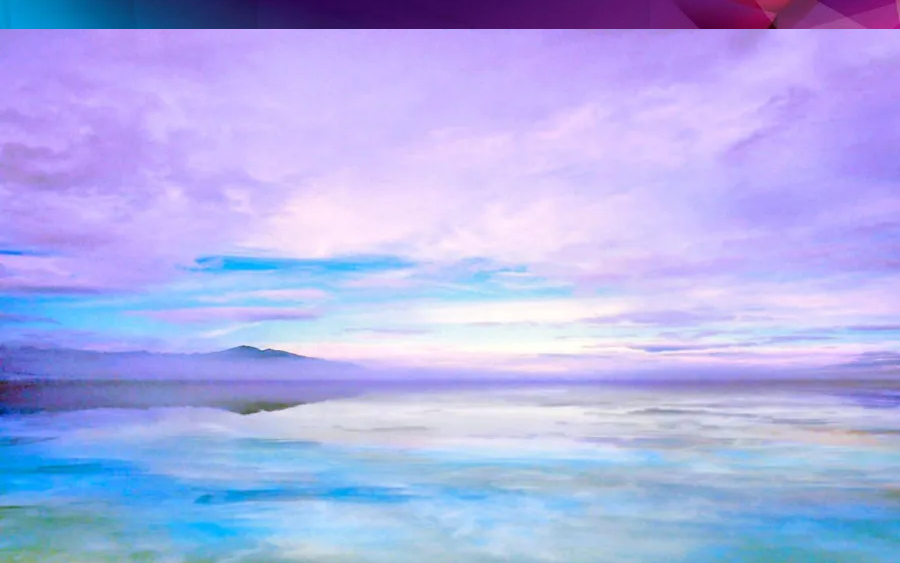
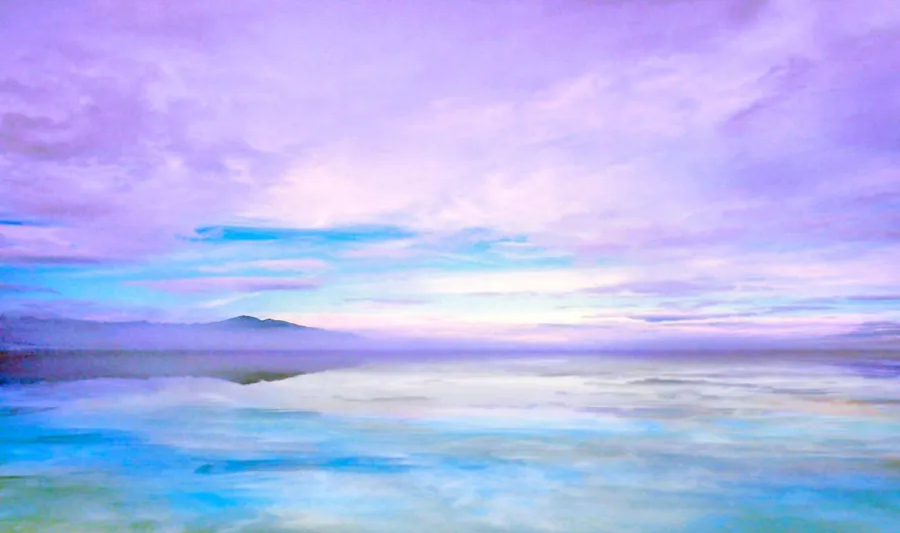
responsividade

diff --git a/src/css/style.css b/src/css/style.css
@@ -30,7 +30,6 @@ section {
     background: url("assets/img/bg-apresentacao.jpg") no-repeat center center/cover;
 }
 
-
 /* Adiciona um efeito de overlay para melhorar a leitura do texto */
 section::before {
     content: "";
@@ -57,6 +56,14 @@ section * {
     margin: 10px auto;
 }
 
+/* Media Query para telas menores */
+@media (max-width: 768px) {
+    #apresentacao img {
+        width: 150px;  /* Ajusta a largura da imagem em telas menores */
+        height: 150px; /* Ajusta a altura da imagem em telas menores */
+    }
+}
+
 
 
 footer {
@@ -64,8 +71,48 @@ footer {
     color: white;
     padding: 10px;
     width: 99.1%;
+    display: flex;
+    align-items: center; /* Garante que os itens fiquem centralizados na linha */
+    justify-content: center;
+    flex-wrap: wrap; /* Permite que os itens se ajustem em várias linhas se necessário */
 }
 
+footer p {
+    text-align: center;
+    margin: 5px 10px;
+}
+
+.contact-bttn, .contact-btn {
+    margin: 5px 10px;
+}
+
+.contact-icon {
+    width: 20px;
+    height: 20px;
+}
+
+/* Media Query para telas menores */
+@media (max-width: 768px) {
+    footer {
+        flex-direction: column; /* Muda para uma coluna em telas pequenas */
+        align-items: center; /* Garante que os itens fiquem centralizados */
+    }
+
+    .contact-bttn, .contact-btn {
+        margin: 10px 0; /* Ajusta o espaçamento entre os botões */
+    }
+
+    .contact-icon {
+        width: 25px; /* Aumenta um pouco o tamanho dos ícones em telas pequenas */
+        height: 25px;
+    }
+
+    footer p {
+        font-size: 14px; /* Diminui a fonte para telas pequenas */
+    }
+}
+
+/* Sidebar normal para telas grandes */
 .sidebar {
     position: fixed;
     top: 0;
@@ -78,6 +125,7 @@ footer {
     flex-direction: column;
     align-items: center;
     padding-top: 20px;
+    transition: width 0.3s ease; /* Transição suave para a largura */
 }
 
 .sidebar ul {
@@ -114,6 +162,7 @@ footer {
     object-fit: cover;
 }
 
+/* Ajuste no conteúdo */
 .content {
     margin-left: 220px; /* Garante espaço ao lado da sidebar */
     max-width: calc(100% - 220px); /* Limita a largura da content para evitar sobreposição */
@@ -121,6 +170,58 @@ footer {
     box-sizing: border-box;
 }
 
+/* Media Query para telas pequenas */
+@media (max-width: 768px) {
+    /* Sidebar para telas pequenas */
+    .sidebar {
+        width: 0; /* Inicialmente oculta a sidebar */
+        height: 100%;
+        overflow: hidden;
+        position: absolute;
+        z-index: 1; /* Coloca a sidebar atrás do conteúdo */
+        transition: width 0.3s ease; /* Transição suave quando aparecer */
+    }
+
+    /* Exibe a sidebar quando o mouse passa por cima */
+    .sidebar:hover {
+        width: 200px; /* Exibe a sidebar */
+    }
+
+    /* Ajuste no conteúdo para telas pequenas */
+    .content {
+        margin-left: 0; /* Não há mais espaço reservado para a sidebar */
+    }
+
+    /* Organiza os itens da lista em colunas para telas pequenas */
+    .sidebar ul li {
+        flex-direction: column; /* Organiza os itens verticalmente */
+        align-items: flex-start; /* Alinha à esquerda */
+        margin: 10px 0;
+    }
+}
+
+/* Ajustes adicionais para garantir que a sidebar seja visível e responsiva sem distorções */
+@media (max-width: 768px) {
+    /* Exibe a sidebar quando o mouse passa por cima */
+    .sidebar {
+        width: 0; /* Inicia oculta */
+        height: 100%;
+        position: absolute;
+        top: 0;
+        left: -200px; /* Coloca a sidebar fora da tela */
+        z-index: 1;
+        transition: left 0.3s ease; /* Transição suave ao mover a sidebar */
+    }
+
+    .sidebar.open {
+        left: 0; /* Sidebar aparece ao passar o mouse ou ao ativar a classe 'open' */
+    }
+
+    /* Ajuste no conteúdo */
+    .content {
+        margin-left: 0; /* Sem espaço à esquerda para o conteúdo */
+    }
+}
 
 #contato {
     display: flex;
